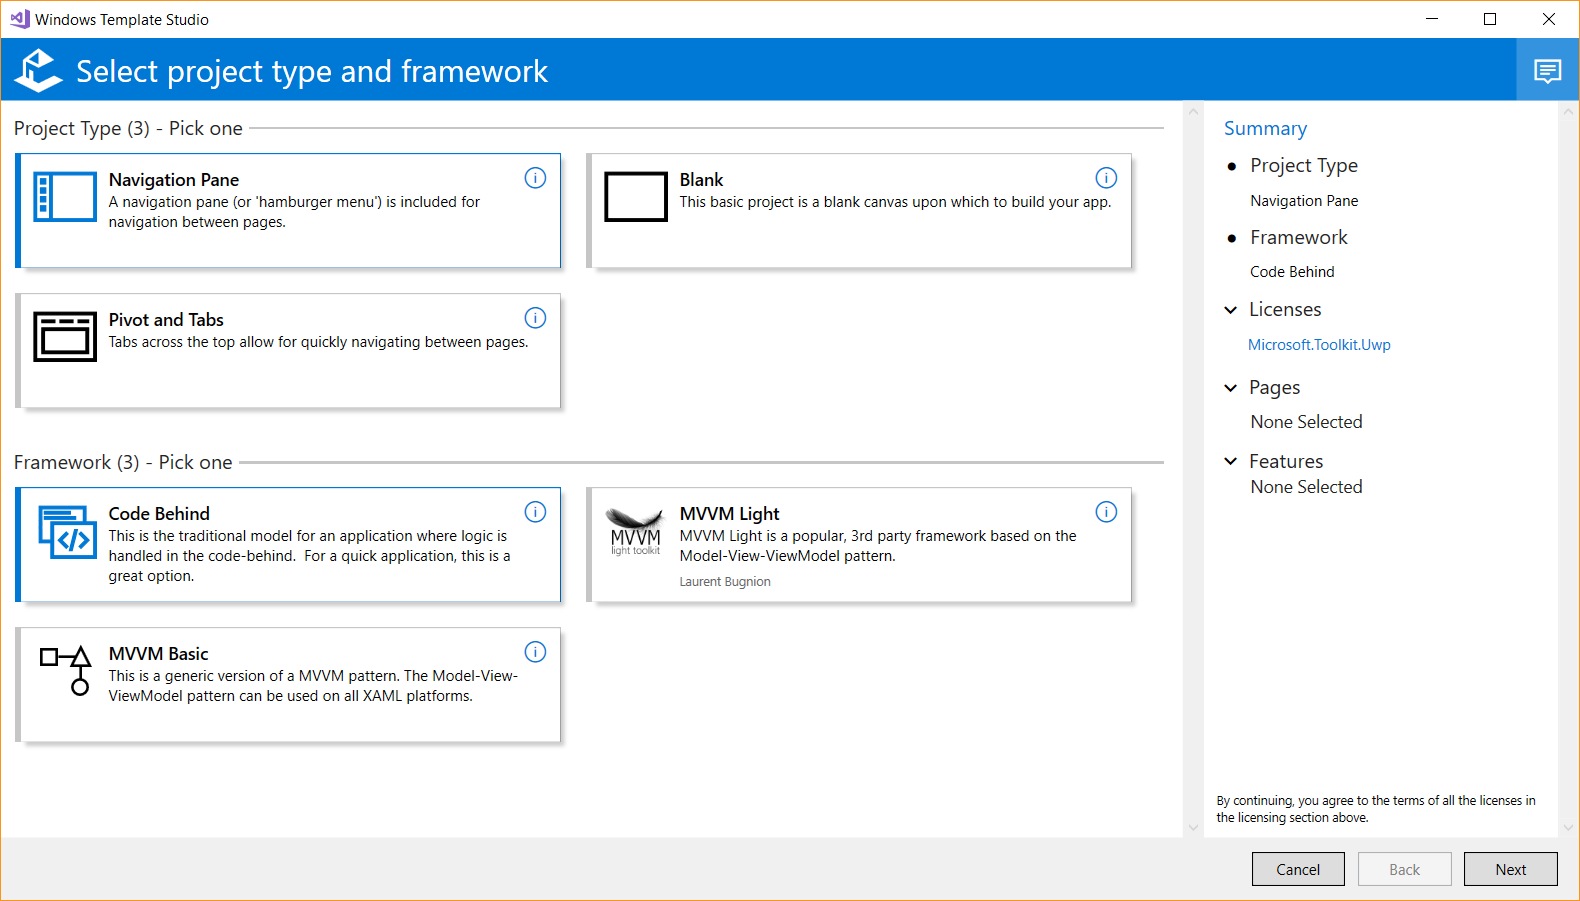
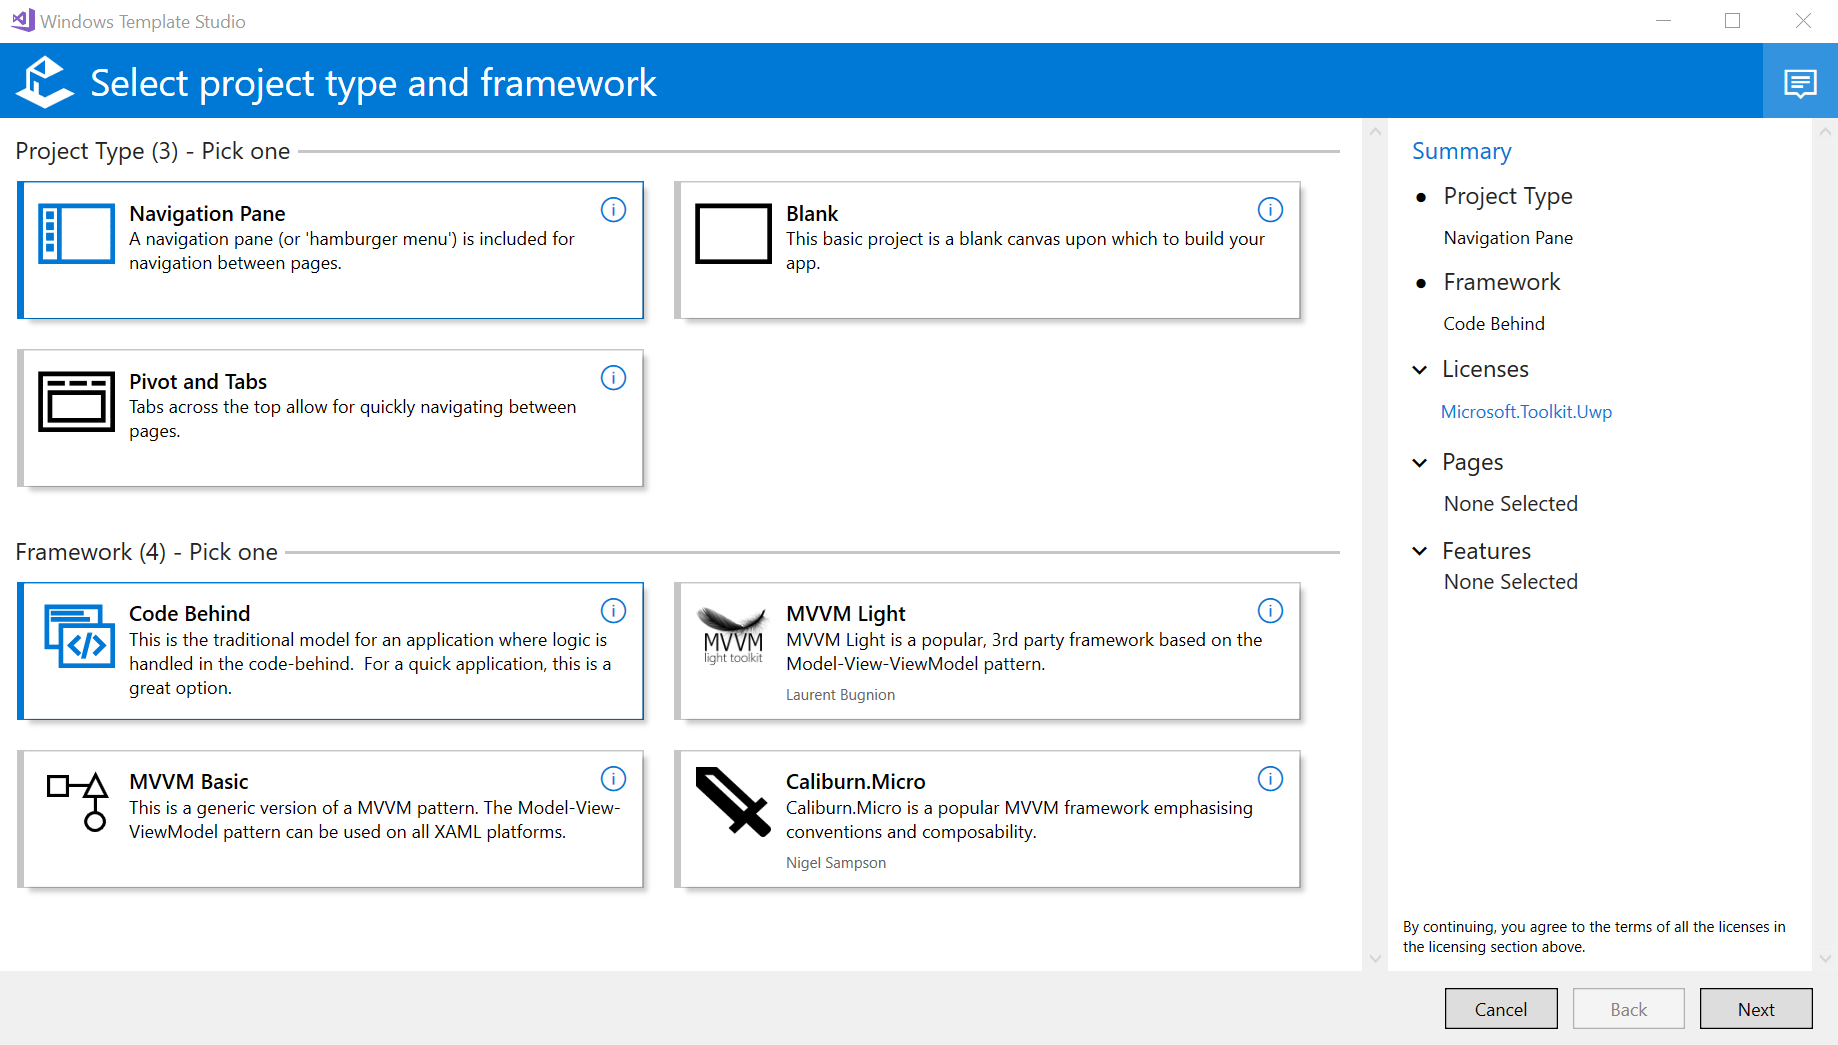
Update documentation

diff --git a/README.md b/README.md
@@ -34,8 +34,8 @@ I need an app that uses MVVM Light, uses master detail, can suspend and resume, 
 
 Windows Template Studio approaches UWP app creation using the following four attribute sets:
 
-* **Project type**: First, how do you want your app's UI navigation to behave? We currently support three project types: *basic*, *[navigation pane](docs/projectTypes/navigationpane.md)*, and *pivot and tabs*
-* **App framework**: Next, what coding pattern do you want to use in your project, we currently support three common patterns: *code behind*, *basic MVVM*, and *[MVVM Light](http://www.mvvmlight.net/)*
+* **Project type**: First, how do you want your app's UI navigation to behave? We currently support three project types: *basic*, *[navigation pane](docs/projectTypes/navigationpane.md)*, and *pivot and tabs*.
+* **App framework**: Next, what coding pattern do you want to use in your project, we currently support three common patterns: *code behind*, *basic MVVM*, *[MVVM Light](http://www.mvvmlight.net/)*, and *[CaliburnMicro](https://caliburnmicro.com/)*.
 * **App pages**: To accelerate app creation, we provide a number of app page templates that you can use to add common UI pages into your new app. We currently include page templates from the *blank page* to the common layouts (*e.g., master/detail, tabbed, web view*) to pages that implement common patterns (*e.g., [app settings](docs/pages/settings.md), map control*). Using the wizard, add as many of the pages as you need, providing a name for each one, and we'll generate them for you.
 * **Windows 10 features**: Lastly, you specify which UWP capabilities you want to use in your app, and we'll build out the framework for the features into your app, tagging 'TODO' items. Currently supported features cover application lifecycle (*settings storage, suspend and resume*), background tasks, and user interaction (*app notifications, Live tiles, and Azure Notification Hub*).
 
@@ -51,7 +51,7 @@ Once you select the attributes you want your new UWP app to have, you can quickl
 
 ## Known issues
 
-None Currently
+* You can't have side-by-side versions (nightly/pre-release/release) of WindowsTemplateStudio VSPackage into a single instance of Visual Studio.
 
 ## Feedback, Requests and Roadmap
 
@@ -72,7 +72,7 @@ Do you want to contribute? We would love to have you help out.  Here are our [co
 1. Generated templates once generated, must be able to be compiled and run.
 1. Generated templates should work on all device families.
 1. Templates should have comments to aid developers.  This includes links to signup pages for keys, MSDN, blogs and how-to's.  All guidance provide should be validated from either the framework/SDK/library’s creator.
-1. All features will be supported for two most recent RTM Windows 10 Updates. Those supported releases are Windows 10 Anniversary Update and Windows 10 Creators Update.
+1. All features will be supported for two most recent RTM Windows 10 Updates. Those supported releases are Windows 10 Creators Update and Windows 10 Fall Creators Update.
 1. Templates released in production will try to adhere to the design language used in the current release of Windows 10.
 1. Code should follow [.NET Core coding style](https://github.com/dotnet/corefx/blob/master/Documentation/coding-guidelines/coding-style.md)
 

diff --git a/CONTRIBUTING.md b/CONTRIBUTING.md
@@ -6,7 +6,7 @@ A developer should be able to quickly and easily add features, pages, and have a
 
 That's why many of the guidelines of this document are obvious and serve only one purpose: **Simplicity.**
 
-Also remeber that the Pull Requests must be done aganist the **[dev branch](https://github.com/Microsoft/WindowsTemplateStudio/tree/dev)**.
+Also remember that the Pull Requests must be done aganist the **[dev branch](https://github.com/Microsoft/WindowsTemplateStudio/tree/dev)**.
 
 ## Before you begin
 
